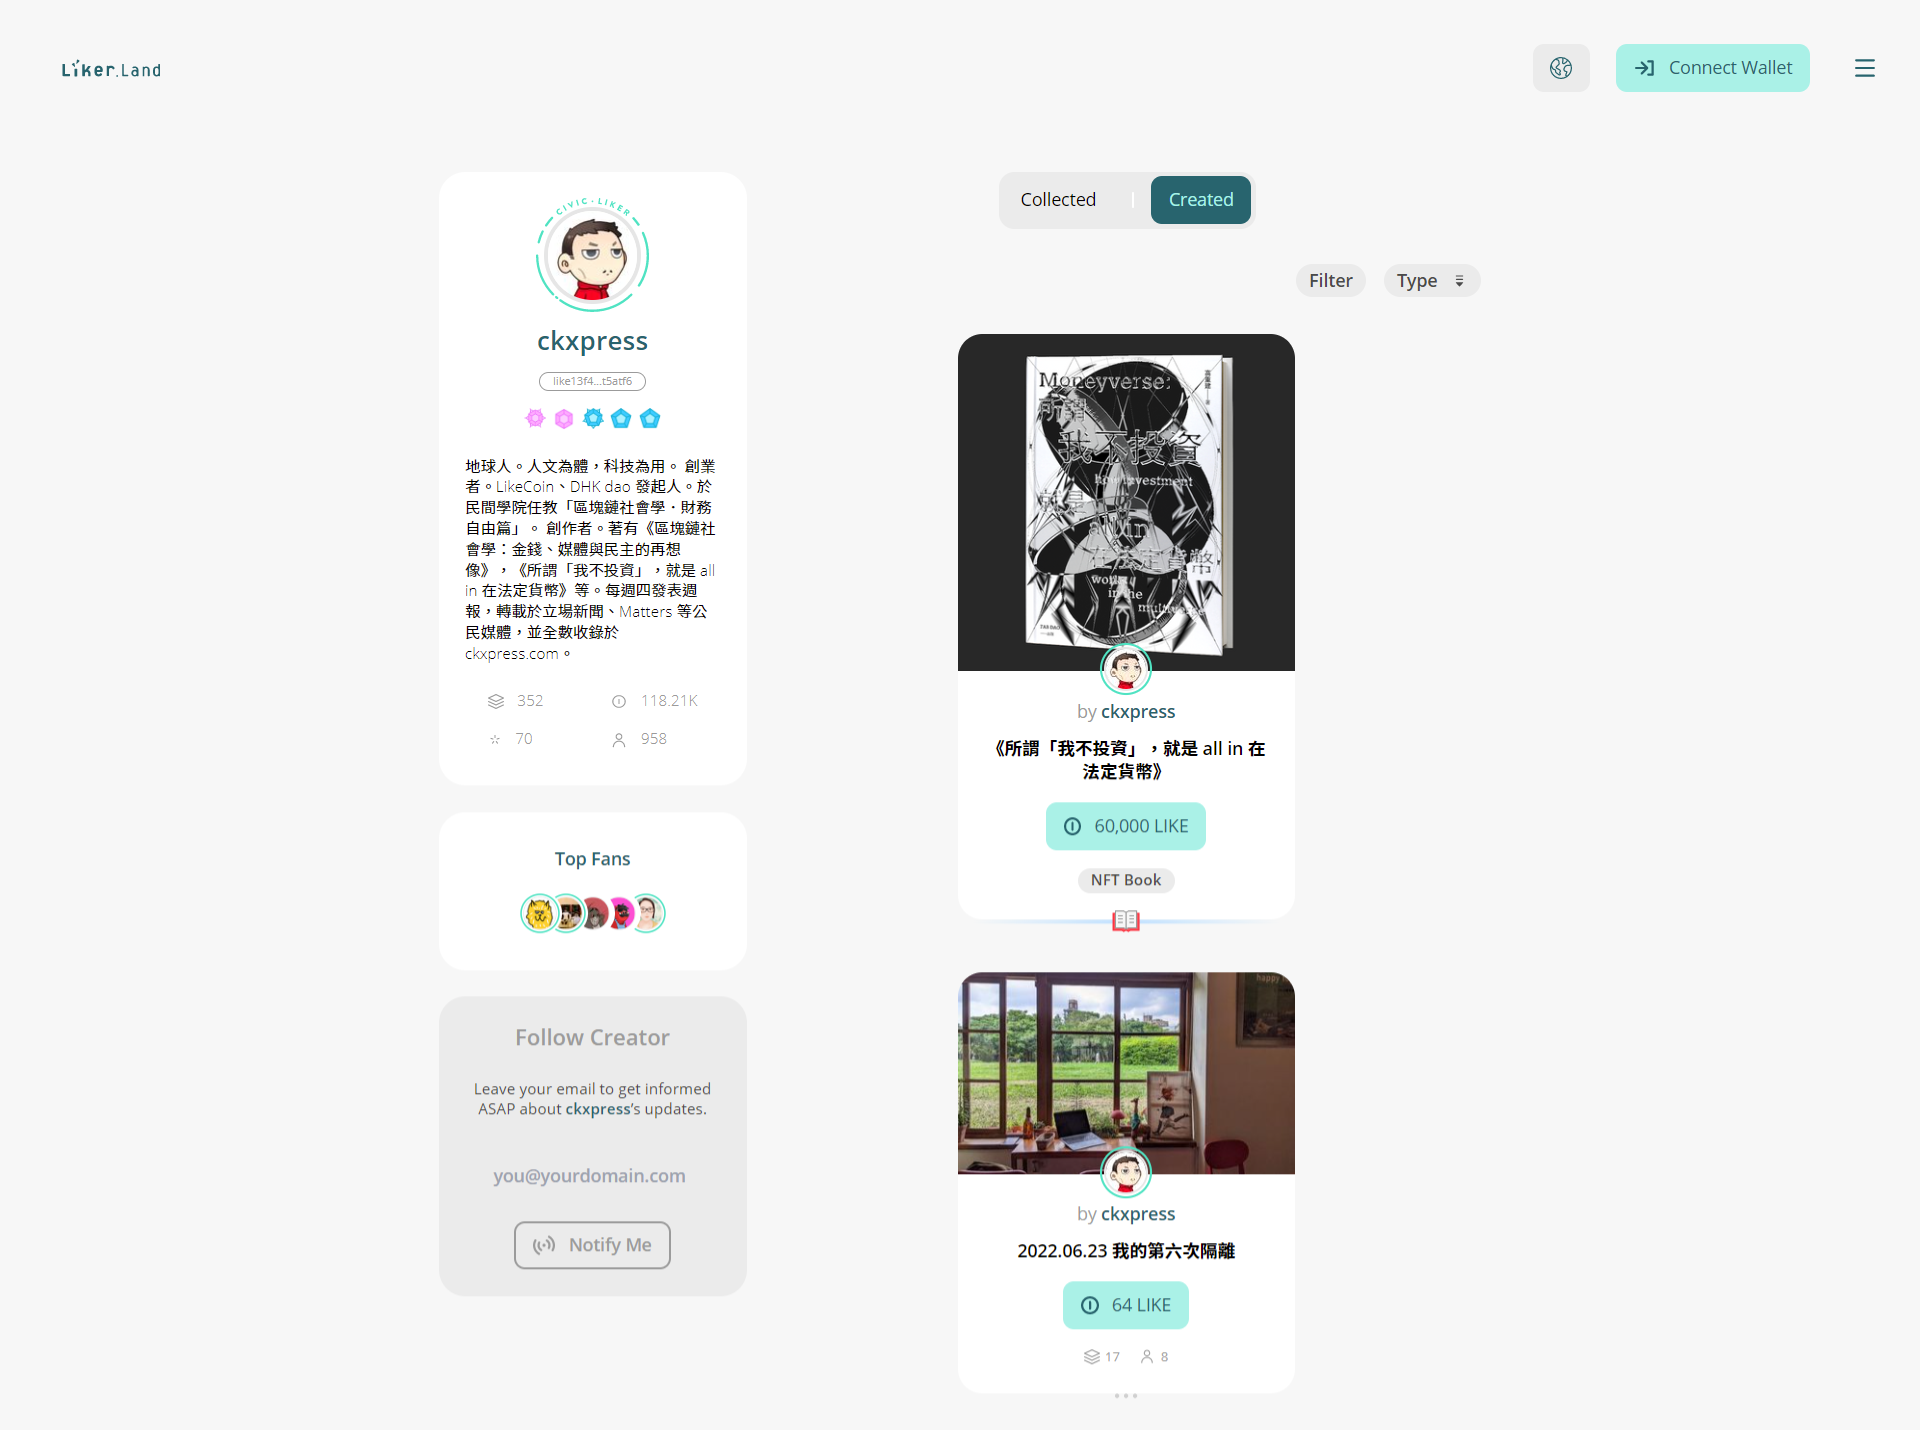
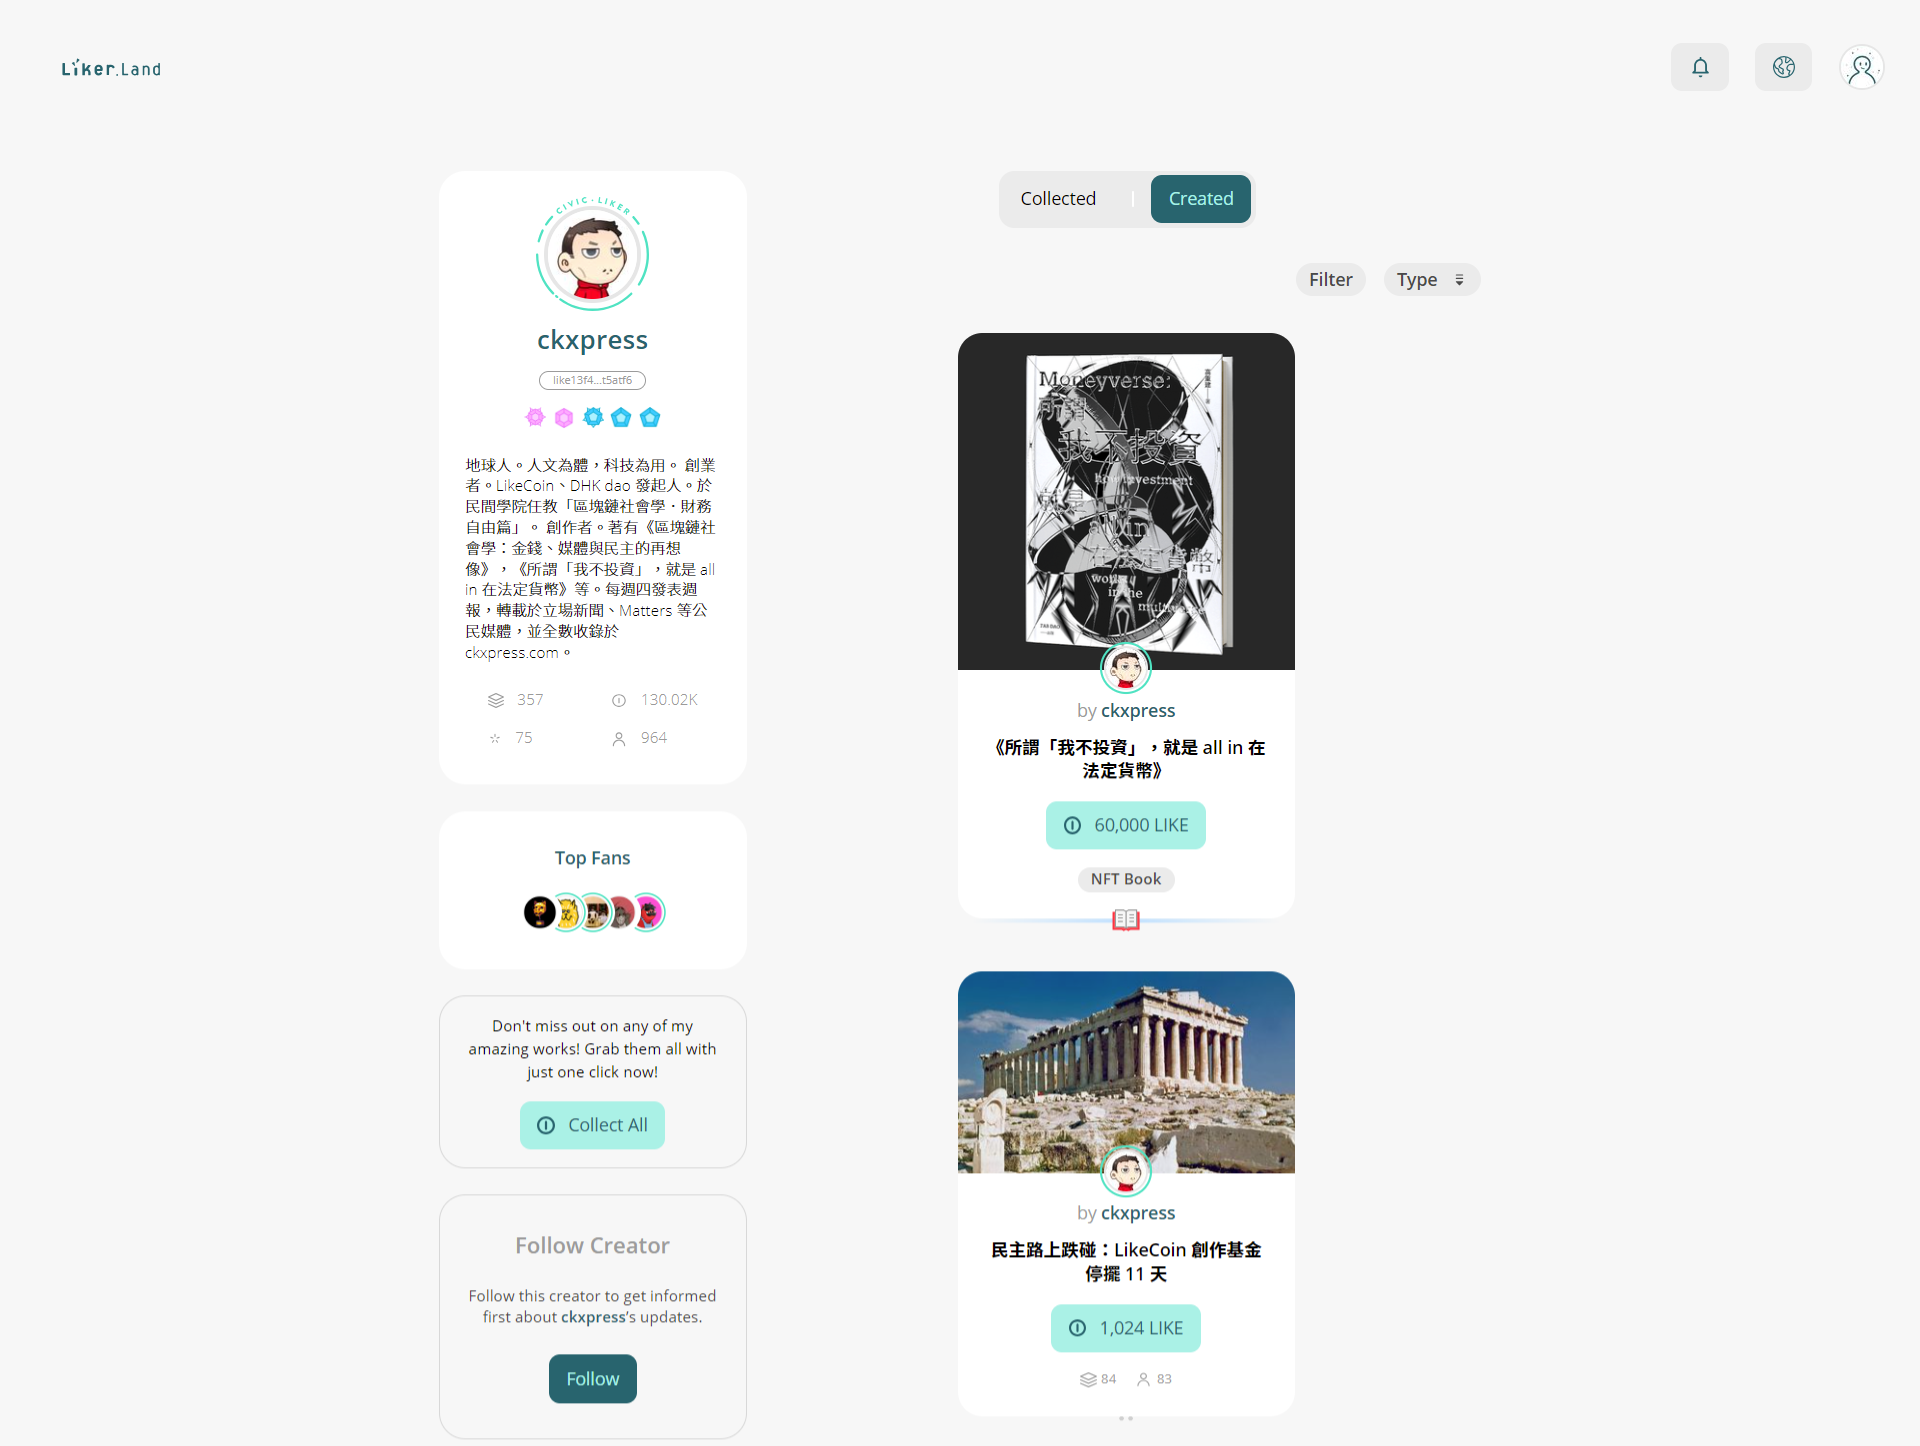
GITBOOK-4517: NFT Portfolio

diff --git a/general-guides/writing-nft/collect-writing-nft/README.md b/general-guides/writing-nft/collect-writing-nft/README.md
@@ -26,7 +26,7 @@ Users can use the [Liker Land app](../../../user-guide/liker-land/download.md) t
 
 Users can also collect Writing NFT on a mobile browser by LIKE using [Keplr Mobile](../../wallet/keplr-mobile/), [Cosmostation app](../../wallet/cosmostation-app/) or [Liker Land app](../../../user-guide/liker-land/download.md).
 
-#### [One-Click Collect Writing NFT](./#one-click-collect-writing-nft-1)
+#### [One-Click Collect All Writing NFT](./#one-click-collect-all-writing-nft-for-both-desktop-and-mobile)
 
 Users can use [Keplr](../../wallet/keplr/), [Cosmostation](../../wallet/cosmostation/), [Leap](../../wallet/leap/), [Keplr mobile](../../wallet/keplr-mobile/), [Cosmostation app](../../wallet/cosmostation-app/cosmostation-app-deposit-and-send-likecoin.md) or [Liker Land app](../../../user-guide/liker-land/download.md) to seamlessly purchase NFTs from the same creator via desktop or mobile browser.
 
@@ -40,7 +40,7 @@ Or go to the NFT details page and click "Collect" or the current NFT price. To b
 
 <figure><img src="../../../.gitbook/assets/Buy NFT 2-en.png" alt=""><figcaption><p>NFT Content Details</p></figcaption></figure>
 
-Or else go to the creator's [NFT Portfolio](nft-portfolio.md) (website: https://liker.land/\[wallet address] ) and click the current NFT price;
+Or else go to the creator's [NFT Portfolio](nft-portfolio.md) (website: https://liker.land/\[wallet address] ) and click the current NFT price or "[Collect All](./#one-click-collect-writing-nft-for-both-desktop-and-mobile)";
 
 <figure><img src="../../../.gitbook/assets/Buy NFT 3-en.png" alt=""><figcaption><p>NFT Portfolio</p></figcaption></figure>
 
@@ -142,9 +142,9 @@ Payment is successful! appears, the Writing NFT is successfully collected with a
 [collect-writing-nft-on-mobile.md](collect-writing-nft-on-mobile.md)
 {% endcontent-ref %}
 
-## One-Click Collect Writing NFT (For both desktop and mobile)
+## One-Click Collect All Writing NFT (For both desktop and mobile)
 
-Using the One-Click Collect feature allows users to purchase all Writing NFTs from a single creator at once, with an automatic filtering feature to prevent duplicate purchases of previously acquired NFTs.
+Using the One-Click Collect All feature allows users to purchase all Writing NFTs from a single creator at once, with an automatic filtering feature to prevent duplicate purchases of previously acquired NFTs.
 
 ### Step 1: Login to your wallet and initiate One-Click Collect
 
